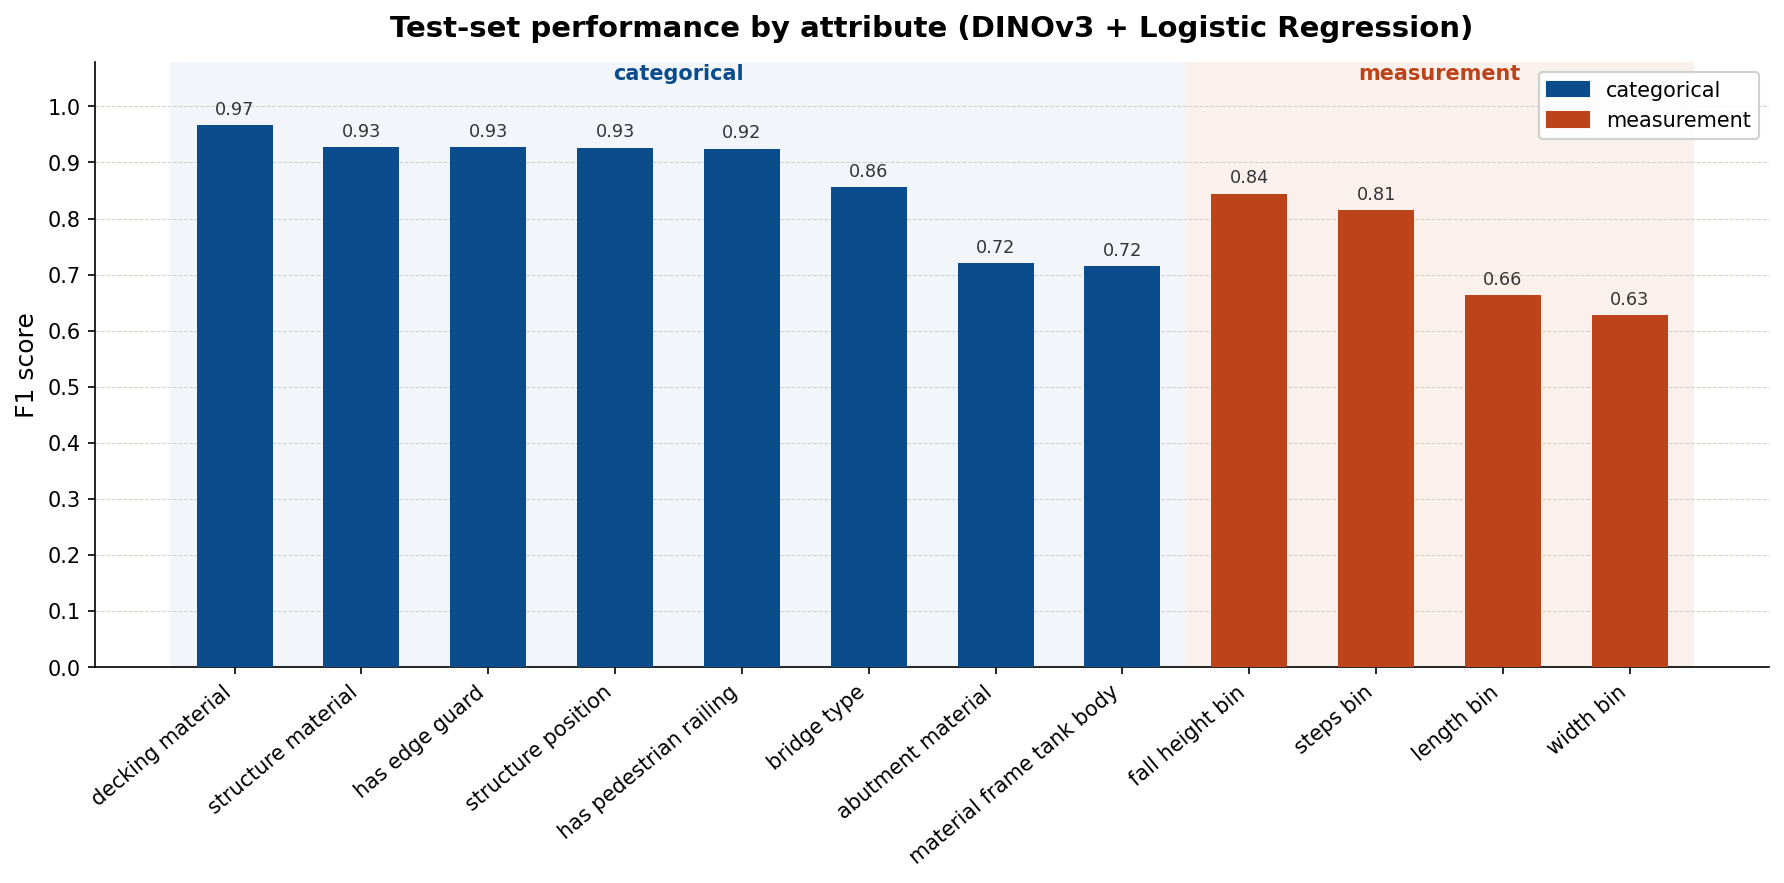
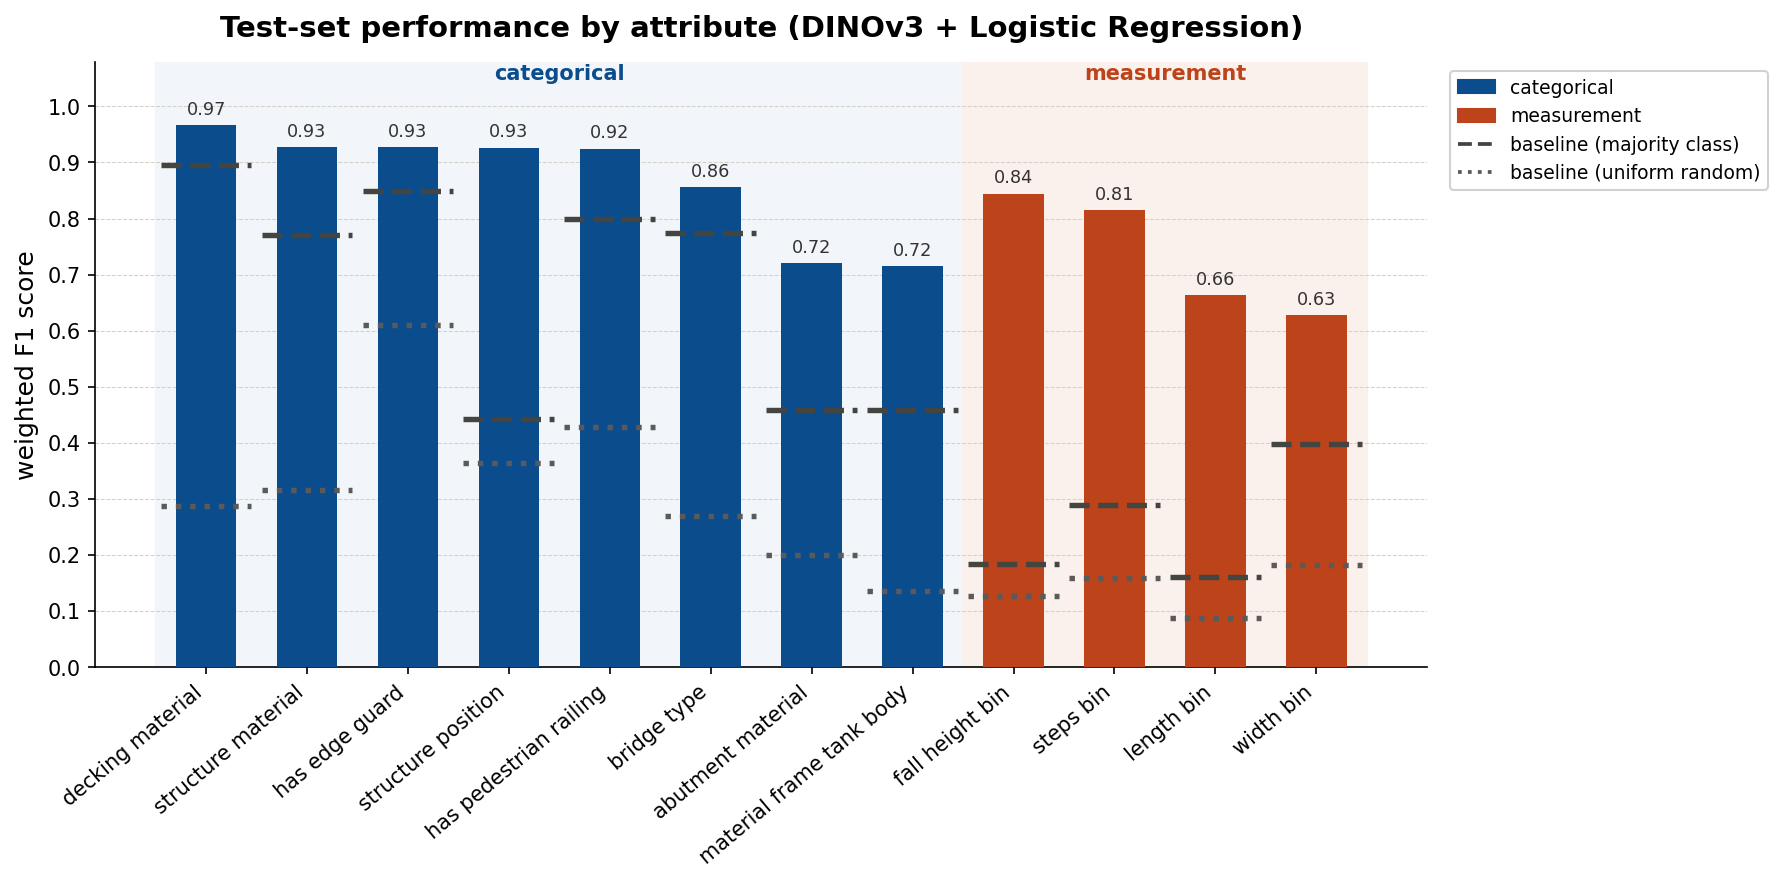
regenerating test set results with baseline comparisons

diff --git a/scripts/plot_test_results.py b/scripts/plot_test_results.py
@@ -50,7 +50,7 @@ def normalise(attr: str) -> str:
 BASELINE_STYLES = {
     "majority_class_group_cv": {"color": "#444441", "linestyle": "--",
                                 "label": "baseline (majority class)"},
-    "uniform_random_group_cv": {"color": "#9A9A9A", "linestyle": ":",
+    "uniform_random_group_cv": {"color": "#5A5A5A", "linestyle": ":",
                                 "label": "baseline (uniform random)"},
 }
 
@@ -132,8 +132,9 @@ def plot(df: pd.DataFrame, args: argparse.Namespace) -> None:
                 if style is None or np.isnan(row["value"]):
                     continue
                 ax.plot([j - 0.45, j + 0.45], [row["value"], row["value"]],
-                        color=style["color"], linewidth=1.8,
-                        linestyle=style["linestyle"], zorder=4)
+                        color=style["color"], linewidth=2.6,
+                        linestyle=style["linestyle"], zorder=5,
+                        solid_capstyle="butt")
                 if row["strategy"] not in legend_added:
                     ax.plot([], [], color=style["color"], linewidth=1.8,
                             linestyle=style["linestyle"], label=style["label"])
@@ -141,7 +142,7 @@ def plot(df: pd.DataFrame, args: argparse.Namespace) -> None:
 
     ax.set_xticks(x)
     ax.set_xticklabels(labels, rotation=40, ha="right", fontsize=10)
-    ax.set_ylabel("F1 score", fontsize=12)
+    ax.set_ylabel("weighted F1 score", fontsize=12)
     ax.set_ylim(0, 1.08)
     ax.yaxis.set_major_locator(mticker.MultipleLocator(0.1))
     ax.yaxis.set_major_formatter(mticker.FormatStrFormatter("%.1f"))
@@ -175,8 +176,8 @@ def plot(df: pd.DataFrame, args: argparse.Namespace) -> None:
         line_handles, line_labels = ax.get_legend_handles_labels()
         handles += [h for h, lab in zip(line_handles, line_labels)
                     if lab.startswith("baseline")]
-    ax.legend(handles=handles, fontsize=9, loc="upper right",
-              frameon=True, framealpha=0.9)
+    ax.legend(handles=handles, fontsize=9, loc="upper left",
+              bbox_to_anchor=(1.01, 1.0), frameon=True, framealpha=0.9)
 
     fig.tight_layout()
     args.output.parent.mkdir(parents=True, exist_ok=True)
